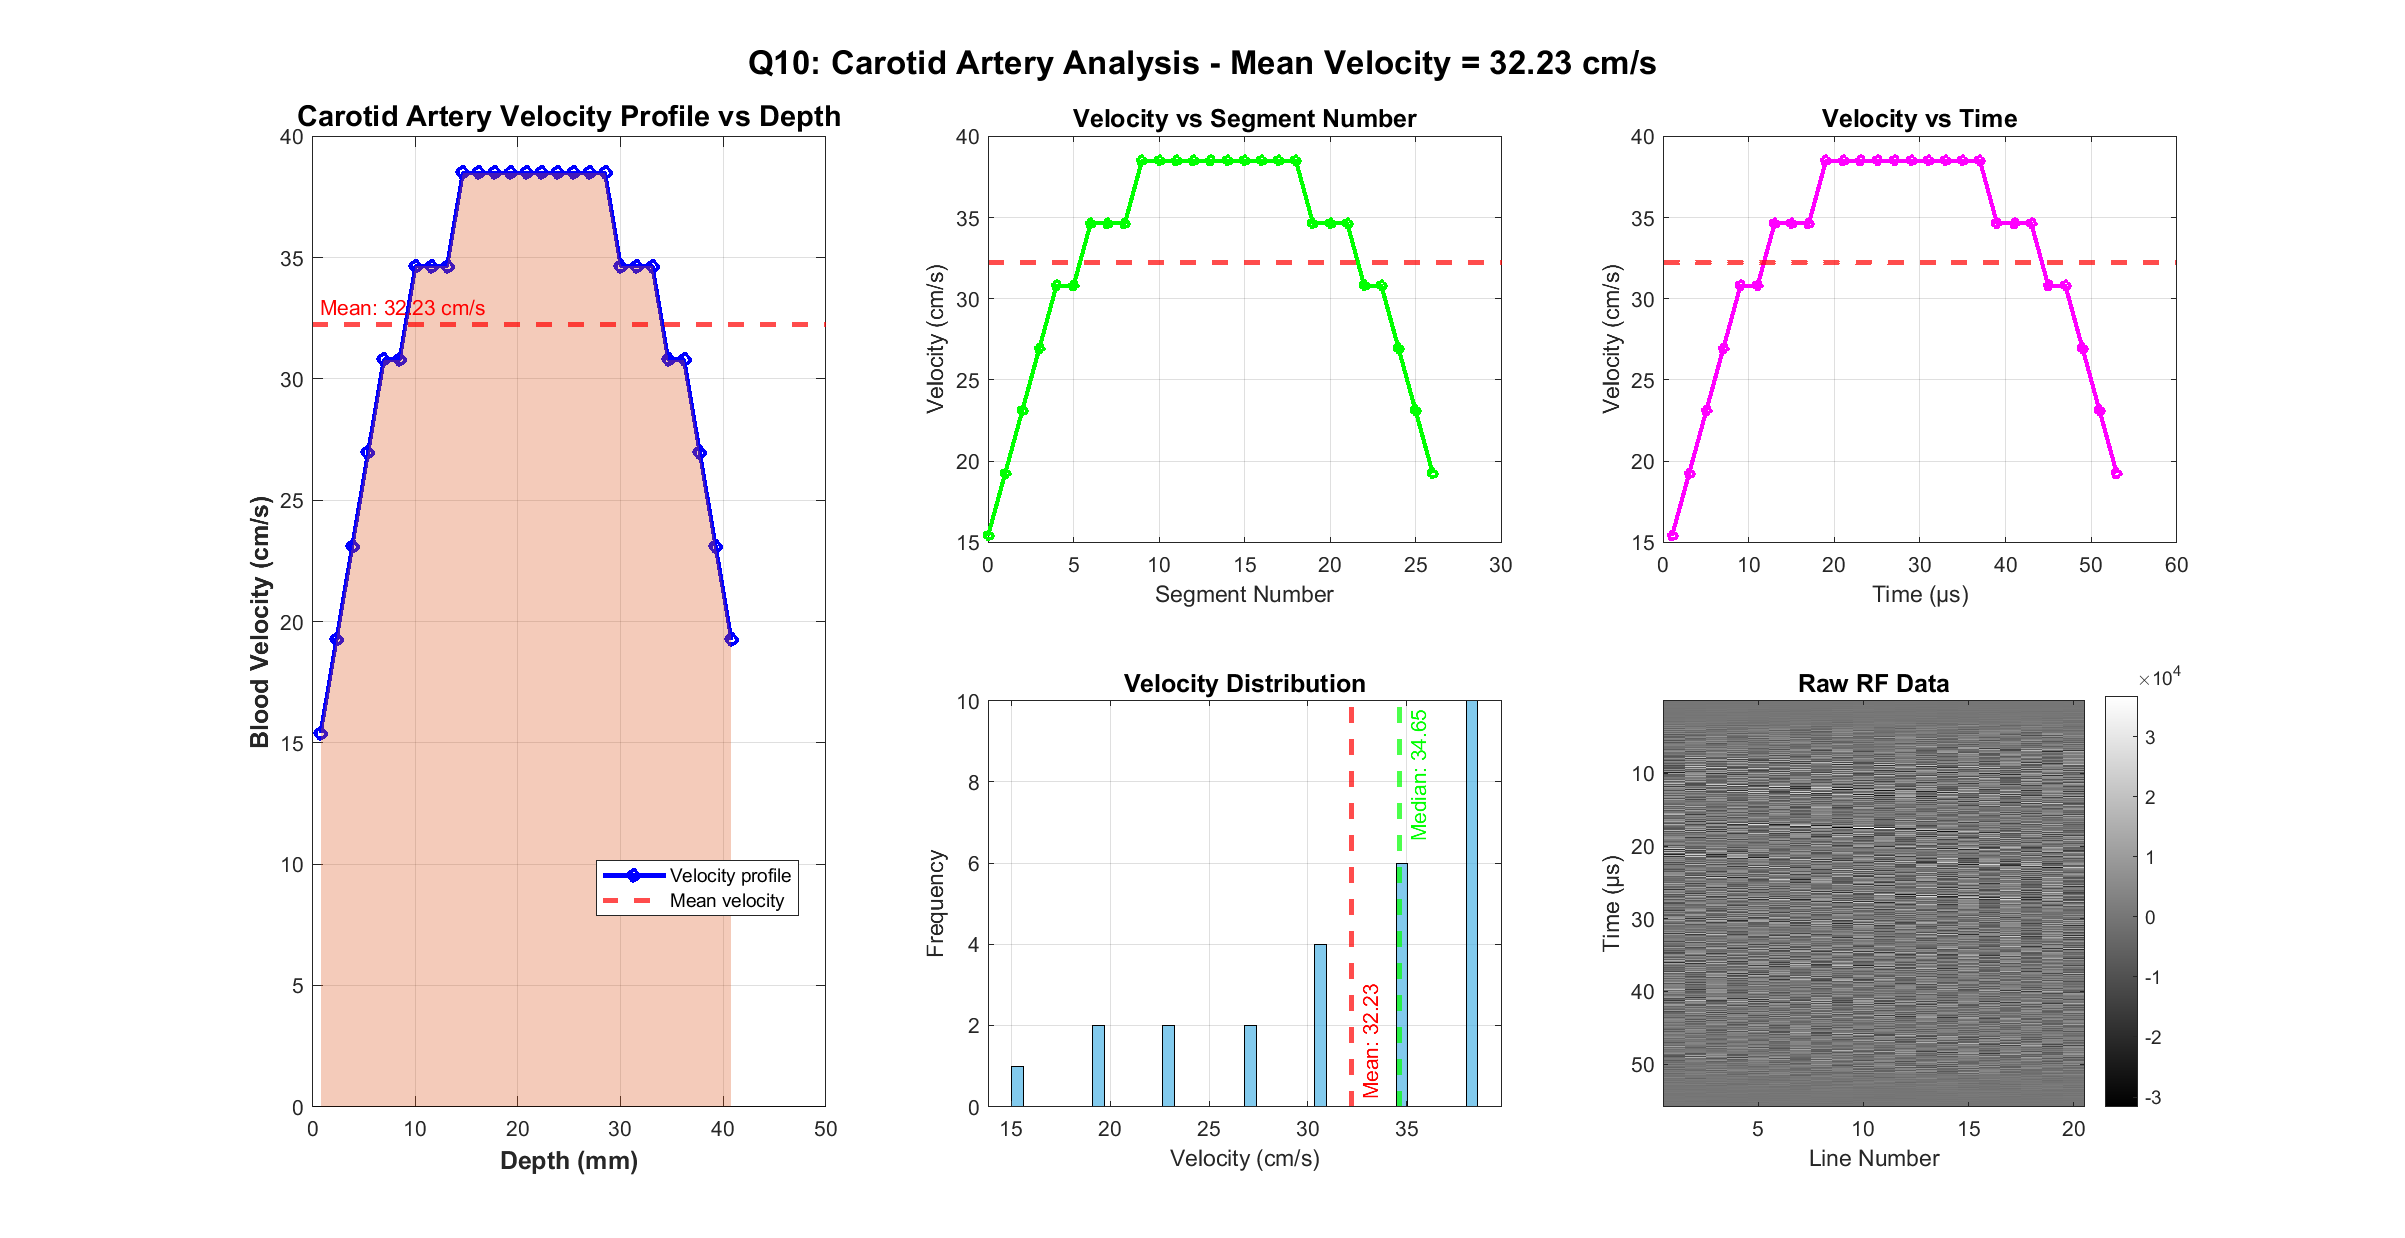
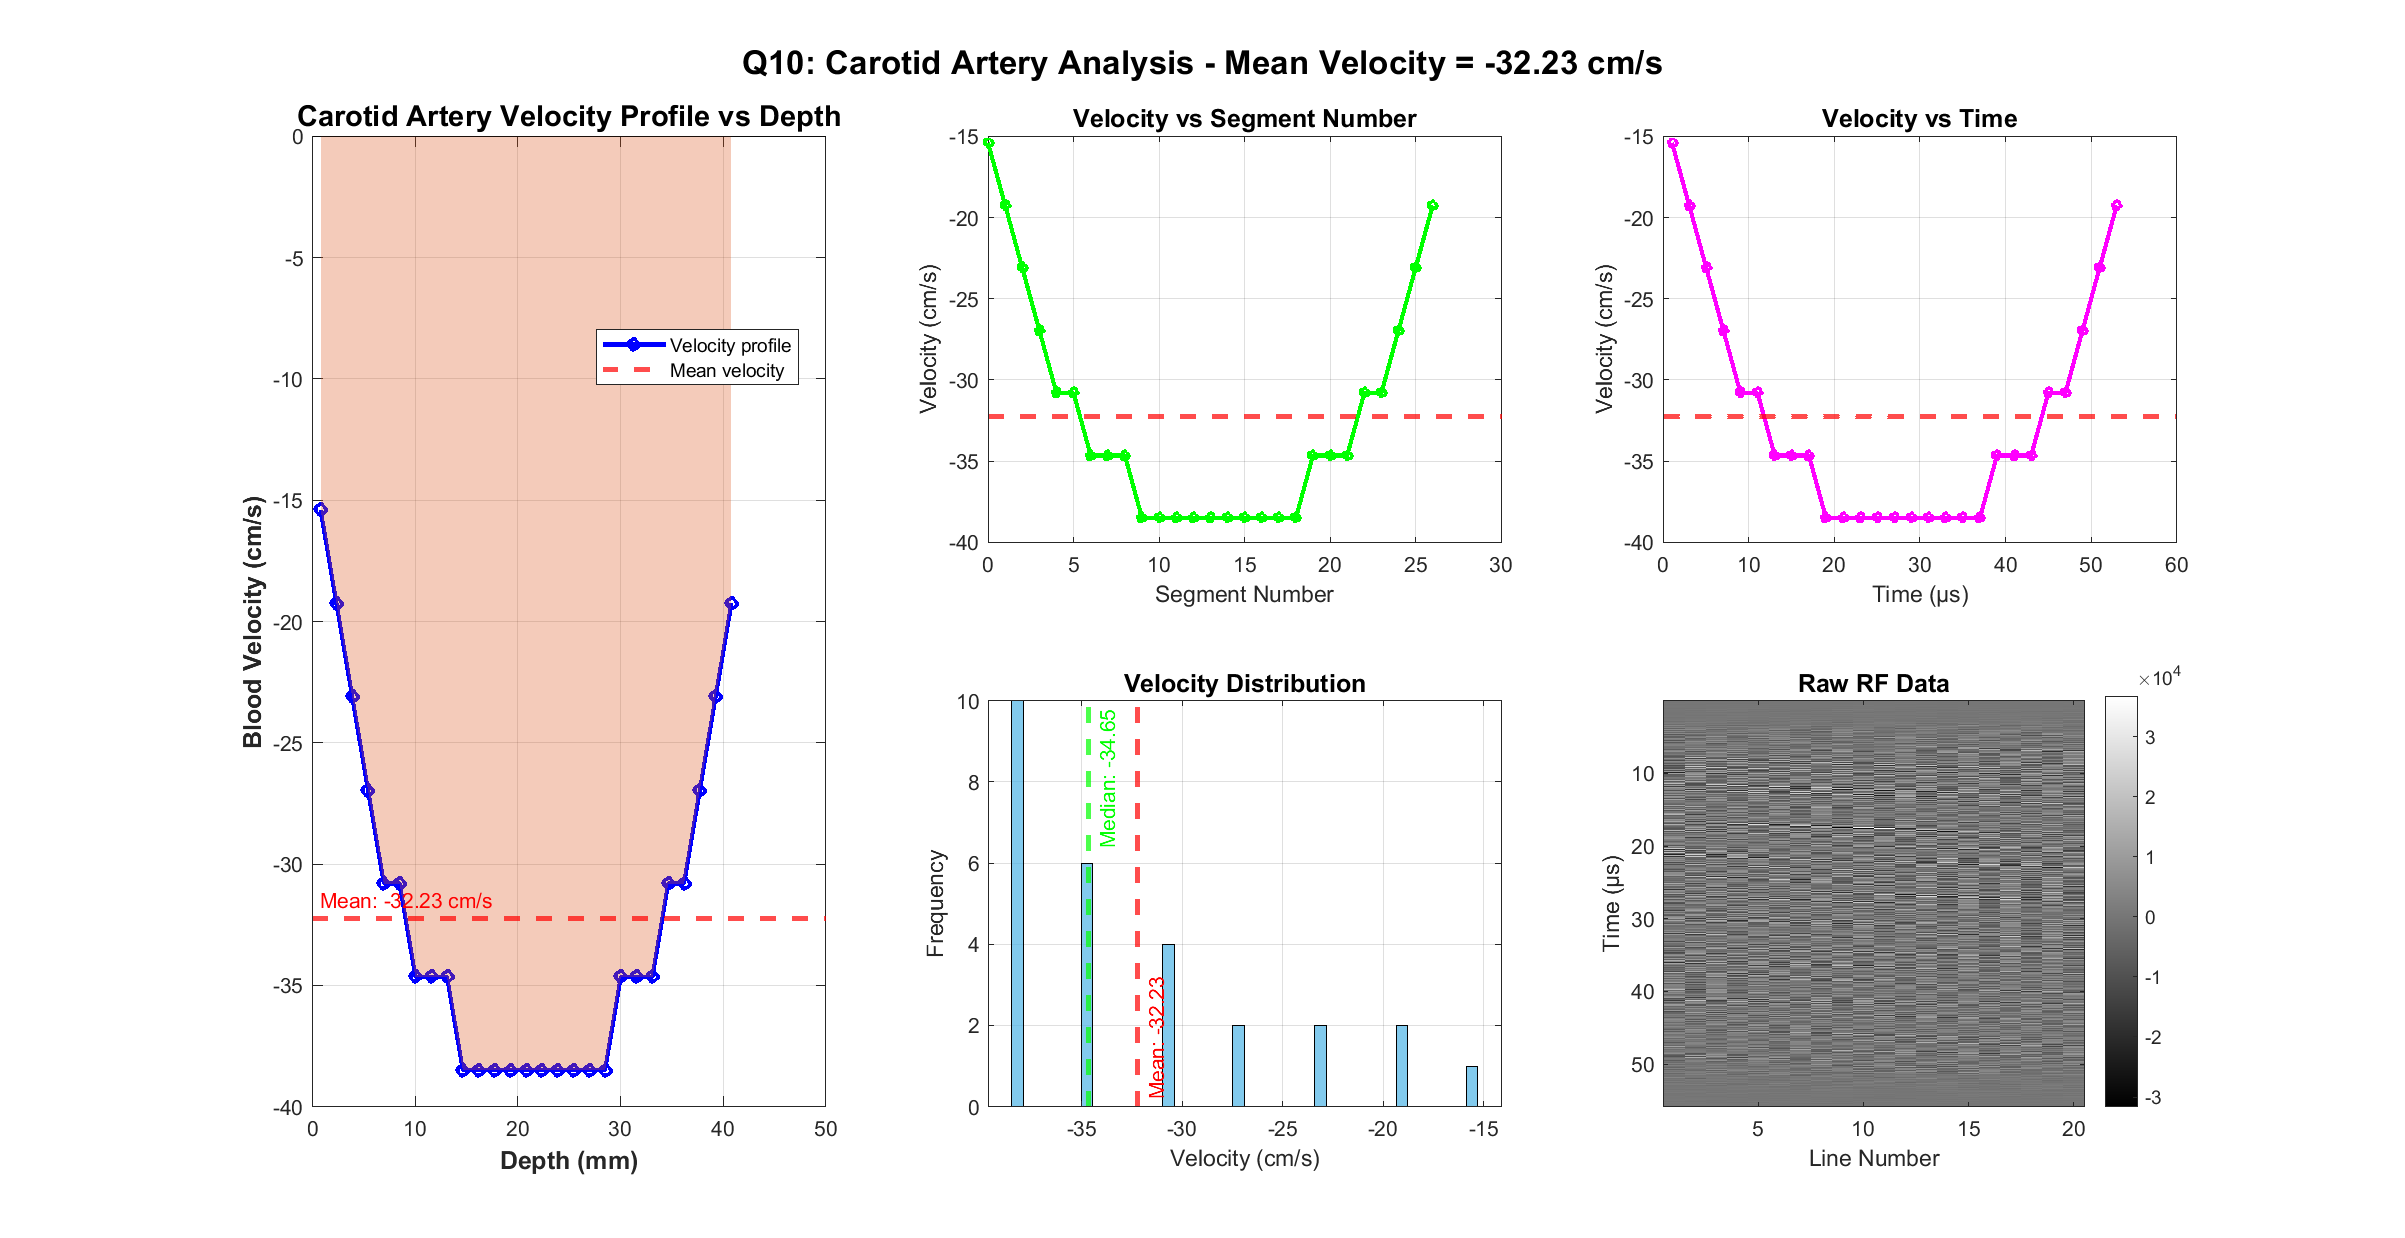
final fix i think

diff --git a/assignment/Q10/Q10.m b/assignment/Q10/Q10.m
@@ -3,10 +3,6 @@
 % This script applies segmented velocity estimation to carotid artery
 % ultrasound data and plots the velocity profile as a function of depth.
 
-% Add utilities to path
-addpath('../../utilis');
-
-clear; close all; clc;
 
 %% Load the data
 fprintf('========================================\n');
@@ -31,8 +27,7 @@ fprintf('  Segment duration: %.0f μs\n', segment_duration*1e6);
 fprintf('  Segment size: %d samples\n\n', round(segment_duration*fs));
 
 %% Estimate velocities for segments
-% Copy the function here or ensure it's in the path
-[velocities, segment_centers, depths] = estimate_velocity_segmented(data, T_prf, c, fs, segment_duration);
+[velocities, segment_centers] = estimate_velocity_segmented(data, T_prf, c, fs, segment_duration);
 
 fprintf('Number of segments: %d\n\n', length(velocities));
 fprintf('Velocity statistics:\n');
@@ -41,134 +36,56 @@ fprintf('  Median: %.4f m/s (%.2f cm/s)\n', median(velocities), median(velocitie
 fprintf('  Std:    %.4f m/s (%.2f cm/s)\n', std(velocities), std(velocities)*100);
 fprintf('  Min:    %.4f m/s (%.2f cm/s)\n', min(velocities), min(velocities)*100);
 fprintf('  Max:    %.4f m/s (%.2f cm/s)\n\n', max(velocities), max(velocities)*100);
+
+% Calculate depths from segment centers
+depths = segment_centers * c / 2;
 fprintf('Depth range: %.2f mm to %.2f mm\n', depths(1)*1000, depths(end)*1000);
 fprintf('Total depth: %.2f mm\n\n', (depths(end) - depths(1))*1000);
 
-%% Main Visualization
-figure('Position', [100, 100, 1600, 1000]);
-
-% Main plot: Velocity vs Depth
-subplot(2, 3, [1 4]);
-plot(depths * 1000, velocities * 100, 'b-o', 'LineWidth', 2, 'MarkerSize', 5);
+%% Visualization - three square figures
+% Figure 1: Velocity vs Depth
+fig1 = figure('Position', [100, 100, 800, 800]);
+plot(depths * 1000, velocities * 100, 'o-', 'LineWidth', 2, 'MarkerSize', 6, ...
+     'MarkerFaceColor', [0 0.4470 0.7410]);
 hold on;
-yline(mean(velocities)*100, 'r--', sprintf('Mean: %.2f cm/s', mean(velocities)*100), ...
+hp1 = yline(mean(velocities)*100, 'r--', sprintf('Mean: %.2f cm/s', mean(velocities)*100), ...
       'LineWidth', 2, 'LabelHorizontalAlignment', 'left');
-yline(0, 'k-', 'LineWidth', 0.5);
-% Fill area under curve
-area(depths * 1000, velocities * 100, 'FaceAlpha', 0.3, 'EdgeColor', 'none');
-xlabel('Depth (mm)', 'FontSize', 12, 'FontWeight', 'bold');
-ylabel('Blood Velocity (cm/s)', 'FontSize', 12, 'FontWeight', 'bold');
-title('Carotid Artery Velocity Profile vs Depth', 'FontSize', 14, 'FontWeight', 'bold');
+set(hp1, 'HandleVisibility', 'off');
+xlabel('Depth (mm)');
+ylabel('Velocity (cm/s)');
+title('Q10: Velocity vs Depth');
 grid on;
-legend('Velocity profile', 'Mean velocity', 'Location', 'best');
+saveas(fig1, 'Q10_velocity_depth.png');
+fprintf('Saved: Q10_velocity_depth.png\n');
 
-% Velocity vs Segment Number
-subplot(2, 3, 2);
-plot(0:length(velocities)-1, velocities * 100, 'g-o', 'LineWidth', 2, 'MarkerSize', 4);
+% Figure 2: Velocity vs Time (2 µs intervals)
+fig2 = figure('Position', [150, 150, 800, 800]);
+plot(segment_centers * 1e6, velocities * 100, 'o-', 'LineWidth', 2, 'MarkerSize', 6, ...
+     'MarkerFaceColor', [0 0.4470 0.7410]);
 hold on;
-yline(mean(velocities)*100, 'r--', 'LineWidth', 2);
-xlabel('Segment Number', 'FontSize', 11);
-ylabel('Velocity (cm/s)', 'FontSize', 11);
-title('Velocity vs Segment Number', 'FontSize', 12, 'FontWeight', 'bold');
+hp2 = yline(mean(velocities)*100, 'r--', sprintf('Mean: %.2f cm/s', mean(velocities)*100), ...
+      'LineWidth', 2, 'LabelHorizontalAlignment', 'left');
+set(hp2, 'HandleVisibility', 'off');
+xlabel('Time (µs)');
+ylabel('Velocity (cm/s)');
+title('Q10: Velocity vs Time (2 µs intervals)');
 grid on;
+saveas(fig2, 'Q10_velocity_time.png');
+fprintf('Saved: Q10_velocity_time.png\n');
 
-% Velocity vs Time
-subplot(2, 3, 3);
-plot(segment_centers * 1e6, velocities * 100, 'm-o', 'LineWidth', 2, 'MarkerSize', 4);
-hold on;
-yline(mean(velocities)*100, 'r--', 'LineWidth', 2);
-xlabel('Time (μs)', 'FontSize', 11);
-ylabel('Velocity (cm/s)', 'FontSize', 11);
-title('Velocity vs Time', 'FontSize', 12, 'FontWeight', 'bold');
-grid on;
-
-% Histogram
-subplot(2, 3, 5);
-histogram(velocities * 100, 40, 'EdgeColor', 'black', 'FaceAlpha', 0.7, 'FaceColor', [0.3 0.7 0.9]);
-hold on;
-xline(mean(velocities)*100, 'r--', sprintf('Mean: %.2f', mean(velocities)*100), ...
-      'LineWidth', 2, 'LabelVerticalAlignment', 'bottom');
-xline(median(velocities)*100, 'g--', sprintf('Median: %.2f', median(velocities)*100), ...
-      'LineWidth', 2, 'LabelVerticalAlignment', 'top');
-xlabel('Velocity (cm/s)', 'FontSize', 11);
-ylabel('Frequency', 'FontSize', 11);
-title('Velocity Distribution', 'FontSize', 12, 'FontWeight', 'bold');
-grid on;
-
-% RF data visualization
-subplot(2, 3, 6);
-imagesc(1:size(data, 2), (1:size(data, 1))/fs*1e6, data);
-colormap(gray);
-xlabel('Line Number', 'FontSize', 11);
-ylabel('Time (μs)', 'FontSize', 11);
-title('Raw RF Data', 'FontSize', 12, 'FontWeight', 'bold');
-colorbar;
-
-sgtitle(sprintf('Q10: Carotid Artery Analysis - Mean Velocity = %.2f cm/s', mean(velocities)*100), ...
-        'FontSize', 16, 'FontWeight', 'bold');
-
-% Save figure
-saveas(gcf, 'Q10_carotid_analysis.png');
-fprintf('Plot saved as Q10_carotid_analysis.png\n\n');
-
-%% Detailed Velocity Profile Plot
-figure('Position', [150, 150, 1200, 600]);
-
-% Calculate moving average for smoothing
-window_size = 5;
-if length(velocities) >= window_size
-    velocities_smooth = movmean(velocities, window_size);
-    plot(depths * 1000, velocities_smooth * 100, 'r-', 'LineWidth', 3, 'DisplayName', 'Smoothed velocity');
-    hold on;
-end
-
-plot(depths * 1000, velocities * 100, 'b.', 'MarkerSize', 8, 'DisplayName', 'Measured velocity');
-yline(0, 'k-', 'LineWidth', 1);
-area(depths * 1000, velocities * 100, 'FaceAlpha', 0.2, 'EdgeColor', 'none', 'DisplayName', '');
-
-xlabel('Depth (mm)', 'FontSize', 13, 'FontWeight', 'bold');
-ylabel('Blood Velocity (cm/s)', 'FontSize', 13, 'FontWeight', 'bold');
-title('Carotid Artery - Detailed Velocity Profile', 'FontSize', 15, 'FontWeight', 'bold');
-grid on;
-legend('Location', 'best', 'FontSize', 11);
-
-% Save figure
-saveas(gcf, 'Q10_detailed_profile.png');
-fprintf('Detailed plot saved as Q10_detailed_profile.png\n\n');
-
-%% Print detailed segment information
-fprintf('========================================\n');
-fprintf('DETAILED SEGMENT INFORMATION\n');
-fprintf('========================================\n\n');
-fprintf('%-5s %-12s %-12s %-15s\n', 'Seg', 'Depth (mm)', 'Time (μs)', 'Velocity (cm/s)');
-fprintf('------------------------------------------------------------\n');
-
-% Print every 5th segment to avoid clutter
-step = max(1, floor(length(velocities) / 20));
-for i = 1:step:length(velocities)
-    fprintf('%-5d %10.2f  %10.2f  %13.2f\n', ...
-            i-1, depths(i)*1000, segment_centers(i)*1e6, velocities(i)*100);
-end
-
-%% Analyze velocity changes
-fprintf('\n========================================\n');
-fprintf('VELOCITY PROFILE ANALYSIS\n');
-fprintf('========================================\n\n');
-
-% Find peak velocity
-[max_vel, max_idx] = max(abs(velocities));
-fprintf('Peak velocity:\n');
-fprintf('  Value: %.2f cm/s\n', velocities(max_idx)*100);
-fprintf('  At depth: %.2f mm\n', depths(max_idx)*1000);
-fprintf('  At segment: %d\n\n', max_idx-1);
-
-% Analyze velocity gradient
-velocity_gradient = gradient(velocities * 100, depths * 1000);
-fprintf('Velocity gradient statistics:\n');
-fprintf('  Mean gradient: %.2f (cm/s)/mm\n', mean(velocity_gradient));
-fprintf('  Max gradient: %.2f (cm/s)/mm\n', max(velocity_gradient));
-fprintf('  Min gradient: %.2f (cm/s)/mm\n\n', min(velocity_gradient));
-
-fprintf('========================================\n');
-fprintf('Analysis complete!\n');
-fprintf('========================================\n');
+% Figure 3: Color Flow Map
+fig3 = figure('Position', [200, 200, 800, 800]);
+n_lines = size(data, 2);
+n_segments = length(velocities);
+% Create velocity map: rows = segments (depth), columns = lines
+velocity_map = repmat(velocities * 100, 1, n_lines);
+imagesc(1:n_lines, depths * 1000, velocity_map);
+colormap(jet);
+cb = colorbar;
+ylabel(cb, 'Velocity (cm/s)');
+xlabel('Line Number');
+ylabel('Depth (mm)');
+title('Q10: Color Flow Map');
+axis xy;
+saveas(fig3, 'Q10_color_flow_map.png');
+fprintf('Saved: Q10_color_flow_map.png\n\n');

diff --git a/assignment/Q9/Q9.m b/assignment/Q9/Q9.m
@@ -1,12 +1,4 @@
 % Q9: Segmented Blood Velocity Estimation from Plug Flow Data
-% 
-% This script divides RF data into 2 microsecond segments and estimates
-% velocity within each segment.
-
-% Add utilities to path
-addpath('../../utilis');
-
-clear; close all; clc;
 
 %% Load the data
 fprintf('Loading plug_flow.mat...\n');
@@ -26,7 +18,7 @@ fprintf('Segment duration: %.0f μs\n', segment_duration*1e6);
 fprintf('Segment size: %d samples\n\n', round(segment_duration*fs));
 
 %% Estimate velocities for segments
-[velocities, segment_centers, depths] = estimate_velocity_segmented(data, T_prf, c, fs, segment_duration);
+[velocities, segment_centers] = estimate_velocity_segmented(data, T_prf, c, fs, segment_duration);
 
 fprintf('Number of segments: %d\n\n', length(velocities));
 fprintf('Velocity statistics:\n');
@@ -34,65 +26,25 @@ fprintf('  Mean:   %.4f m/s (%.2f cm/s)\n', mean(velocities), mean(velocities)*1
 fprintf('  Std:    %.4f m/s (%.2f cm/s)\n', std(velocities), std(velocities)*100);
 fprintf('  Min:    %.4f m/s (%.2f cm/s)\n', min(velocities), min(velocities)*100);
 fprintf('  Max:    %.4f m/s (%.2f cm/s)\n\n', max(velocities), max(velocities)*100);
-fprintf('Depth range: %.2f mm to %.2f mm\n\n', depths(1)*1000, depths(end)*1000);
 
-%% Visualization
-figure('Position', [100, 100, 1400, 1000]);
-
-% Plot velocity vs segment number
-subplot(2, 2, 1);
-plot(0:length(velocities)-1, velocities * 100, 'o-', 'LineWidth', 2, 'MarkerSize', 4);
+%% Visualization - two square figures
+% Figure 1: Velocity vs Segment Number
+fig1 = figure('Position', [100, 100, 800, 800]);
+plot(0:length(velocities)-1, velocities * 100, 'o-', 'LineWidth', 2, 'MarkerSize', 6, ...
+     'MarkerFaceColor', [0 0.4470 0.7410]);
 hold on;
-yline(mean(velocities)*100, 'r--', sprintf('Mean: %.2f cm/s', mean(velocities)*100), ...
+hp1 = yline(mean(velocities)*100, 'r--', sprintf('Mean: %.2f cm/s', mean(velocities)*100), ...
       'LineWidth', 2, 'LabelHorizontalAlignment', 'left');
+set(hp1, 'HandleVisibility', 'off');
 xlabel('Segment Number');
 ylabel('Velocity (cm/s)');
-title('Velocity vs Segment Number');
+title('Q9: Velocity vs Segment Number');
 grid on;
-
-% Plot velocity vs depth
-subplot(2, 2, 2);
-plot(depths * 1000, velocities * 100, 'o-', 'LineWidth', 2, 'MarkerSize', 4);
-hold on;
-yline(mean(velocities)*100, 'r--', sprintf('Mean: %.2f cm/s', mean(velocities)*100), ...
-      'LineWidth', 2, 'LabelHorizontalAlignment', 'left');
-xlabel('Depth (mm)');
-ylabel('Velocity (cm/s)');
-title('Velocity vs Depth');
-grid on;
-
-% Plot velocity vs time
-subplot(2, 2, 3);
-plot(segment_centers * 1e6, velocities * 100, 'o-', 'LineWidth', 2, 'MarkerSize', 4);
-hold on;
-yline(mean(velocities)*100, 'r--', sprintf('Mean: %.2f cm/s', mean(velocities)*100), ...
-      'LineWidth', 2, 'LabelHorizontalAlignment', 'left');
-xlabel('Time (μs)');
-ylabel('Velocity (cm/s)');
-title('Velocity vs Time');
-grid on;
-
-% Plot histogram
-subplot(2, 2, 4);
-histogram(velocities * 100, 30, 'EdgeColor', 'black', 'FaceAlpha', 0.7);
-hold on;
-xline(mean(velocities)*100, 'r--', sprintf('Mean: %.2f cm/s', mean(velocities)*100), ...
-      'LineWidth', 2, 'LabelVerticalAlignment', 'bottom');
-xlabel('Velocity (cm/s)');
-ylabel('Frequency');
-title('Velocity Distribution');
-grid on;
-
-sgtitle(sprintf('Q9: Segmented Plug Flow Analysis - Mean Velocity = %.2f cm/s', mean(velocities)*100), ...
-        'FontSize', 14, 'FontWeight', 'bold');
-
-% Save figure
-saveas(gcf, 'Q9_analysis.png');
-fprintf('Plot saved as Q9_analysis.png\n\n');
+saveas(fig1, 'Q9_velocity_segments.png');
+fprintf('Saved: Q9_velocity_segments.png\n\n');
 
 %% Print first few velocities
 fprintf('First 10 segment velocities:\n');
 for i = 1:min(10, length(velocities))
-    fprintf('  Segment %d: %.2f cm/s at depth %.2f mm\n', ...
-            i-1, velocities(i)*100, depths(i)*1000);
+    fprintf('  Segment %d: %.2f cm/s\n', i-1, velocities(i)*100);
 end

diff --git a/assignment/Q8/Q8.m b/assignment/Q8/Q8.m
@@ -28,10 +28,35 @@ fprintf('Estimated blood velocity: %.2f cm/s\n\n', velocity*100);
 %% Visualization - save each subplot as a separate square image
 % Plot first two lines as a square image
 fig1 = figure('Position', [100, 100, 800, 800]);
+% time axis in seconds
+t = (0:n_samples-1) / fs;
+plot(t, data(:, 1), 'LineWidth', 1.5);
+hold on;
+plot(t, data(:, 2), 'LineWidth', 1.5);
+xlabel('Time (s)');
+ylabel('Amplitude');
+title('Q8: First Two Lines');
+legend('Line 1', 'Line 2');
+grid on;
+saveas(fig1, 'Q8_line12.png');
+fprintf('Saved: Q8_line12.png\n');
 
+% Plot all lines as an image (square)
+fig2 = figure('Position', [150, 150, 800, 800]);
+% imagesc with time axis (seconds) on y-axis
+imagesc(1:n_lines, t, data);
+colormap(gray);
+xlabel('Line Number');
+ylabel('Time (s)');
+title('Q8: All Lines (image)');
+axis xy; axis image; colorbar;
+saveas(fig2, 'Q8_all_lines.png');
+fprintf('Saved: Q8_all_lines.png\n');
+
+% Compute averaged cross-correlation
 correlations = [];
 for i = 1:(n_lines - 1)
-    [corr, lags] = xcorr(data(:, i+1), data(:, i));
+    [corr, lags] = xcorr(data(:, i), data(:, i+1));
     correlations = [correlations; corr'];
 end
 avg_correlation = mean(correlations, 1);

diff --git a/assignment/Q7/Q7.m b/assignment/Q7/Q7.m
@@ -87,7 +87,7 @@ for run_idx = 1:N_runs
 
         % 2 lines with time shift applied on the long RF
         rf_shifted_1 = circshift(rf_long, 0);  % Line 1 (no shift)
-        rf_shifted_2 = circshift(rf_long, round(sample_shift_per_line));  % Line 2 (shifted)
+        rf_shifted_2 = circshift(rf_long, -round(sample_shift_per_line));  % Line 2 (shifted)
 
         % extract window using utility's indices
         sig1 = rf_shifted_1(window_start_sample : window_start_sample + n_samples - 1);

diff --git a/utilis/simulate_ultrasound_data.m b/utilis/simulate_ultrasound_data.m
@@ -62,7 +62,7 @@ function [rf_data, params, rf_long] = simulate_ultrasound_data(vz, Ntrials)
     % step 3: generate RF data for each line using circshift
     for line_idx = 1:Ntrials
         shift_samples = round(sample_shift_per_line * (line_idx - 1));
-        rf_shifted = circshift(rf_base, shift_samples);
+        rf_shifted = circshift(rf_base, -shift_samples);
         rf_data(:, line_idx) = rf_shifted(window_start_sample : window_start_sample + n_samples - 1);
     end
     

diff --git a/utilis/estimate_velocity_segmented.m b/utilis/estimate_velocity_segmented.m
@@ -36,7 +36,7 @@ function [velocities, segment_centers, depths] = estimate_velocity_segmented(dat
         for i = 1:(n_lines - 1)
             signal1 = segment_data(:, i);
             signal2 = segment_data(:, i + 1);
-            [corr, lags] = xcorr(signal2, signal1);
+            [corr, lags] = xcorr(signal1, signal2);
             correlations = [correlations; corr'];
         end
         

diff --git a/utilis/estimate_blood_velocity.m b/utilis/estimate_blood_velocity.m
@@ -11,7 +11,7 @@ function velocity = estimate_blood_velocity(signal1, signal2, T_prf, c, fs)
 % Output:
 %   velocity - Estimated blood velocity in m/s
 
-    [correlation, lags] = xcorr(signal2, signal1);
+    [correlation, lags] = xcorr(signal1, signal2);
     [~, max_idx] = max(correlation);
     delay_samples = lags(max_idx);
     t_s = delay_samples / fs;

diff --git a/utilis/estimate_velocity_averaged.m b/utilis/estimate_velocity_averaged.m
@@ -16,7 +16,7 @@ function velocity = estimate_velocity_averaged(data, T_prf, c, fs)
     for i = 1:(n_lines - 1)
         signal1 = data(:, i);
         signal2 = data(:, i + 1);
-        [corr, lags] = xcorr(signal2, signal1);
+        [corr, lags] = xcorr(signal1, signal2);
         correlations = [correlations; corr'];
     end
     
